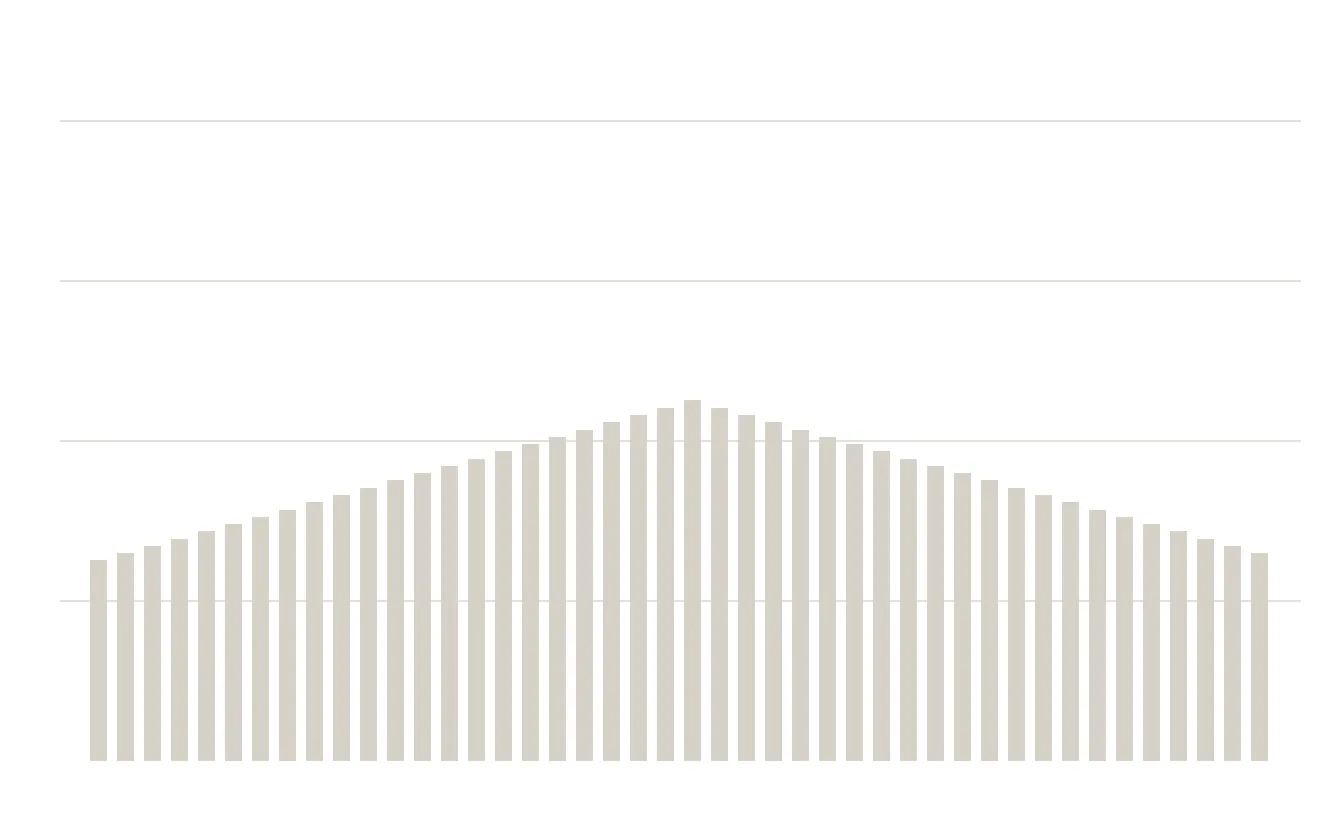
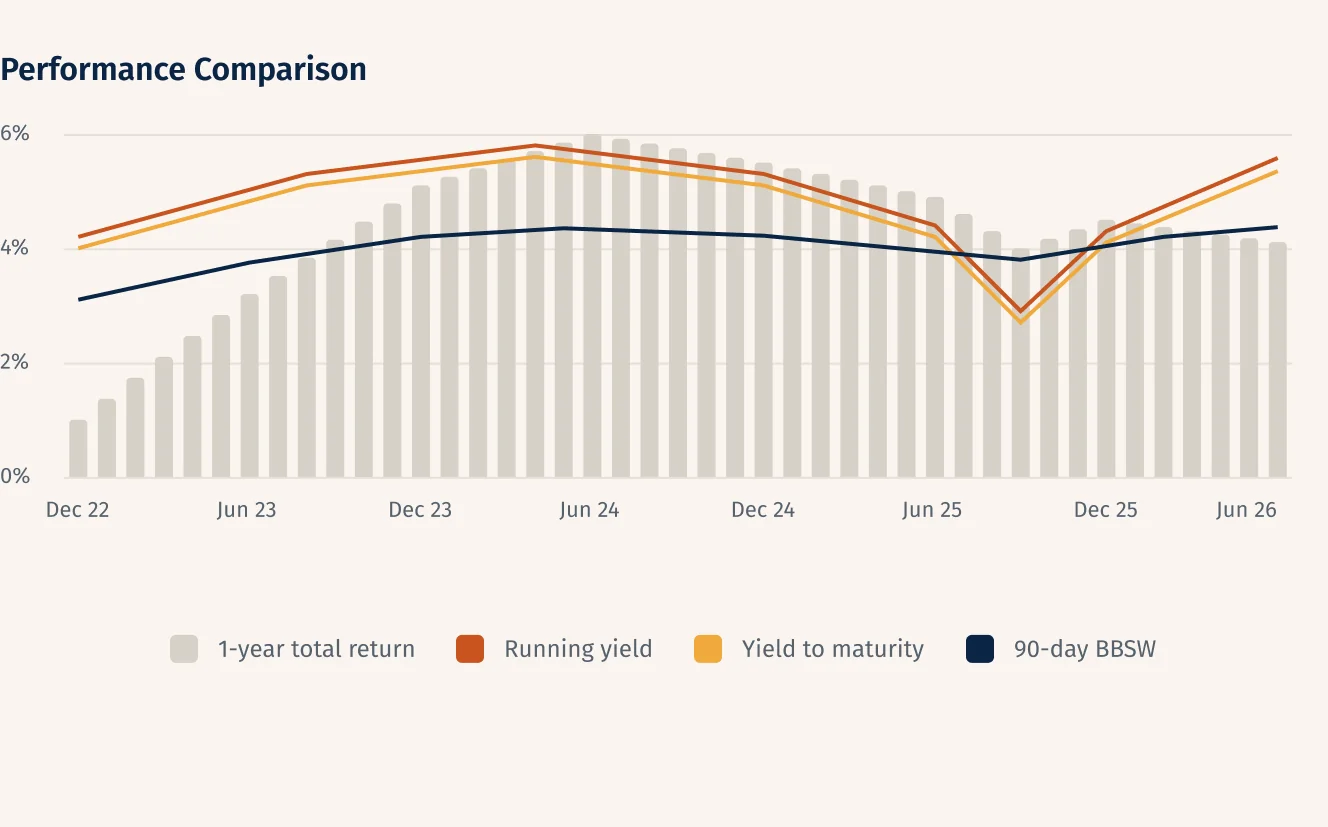
Add files via upload

diff --git a/src/styles/global.css b/src/styles/global.css
@@ -56,10 +56,10 @@
   --text-h4: 28px;      --text-h4--line-height: 1.15;
   --text-h5: 24px;      --text-h5--line-height: 1.35;
   --text-h6: 20px;      --text-h6--line-height: 1.3;
-  --text-body-lg: 22px; --text-body-lg--line-height: 1.5; /* fund 'About the Fund' paragraph */
+  --text-base-lg: 22px; --text-base-lg--line-height: 1.5; /* fund 'About the Fund' paragraph */
   --text-lead: 18px;    --text-lead--line-height: 1.45;
   --text-subhead: 16px; --text-subhead--line-height: 1.2; /* table/chart titles on fund pages; SemiBold navy-mid */
-  --text-body: 15px;    --text-body--line-height: 1.45;
+  --text-base: 15px;    --text-base--line-height: 1.45; /* body copy; `text-body` is the COLOUR utility — use text-base for the size */
   --text-small: 12px;   --text-small--line-height: 1.4;
   --text-kicker: 11px;  --text-kicker--line-height: 1.2; /* use with font-semibold uppercase tracking-kicker */
   --text-caption: 11px; --text-caption--line-height: 1.3;
@@ -80,9 +80,11 @@
   --gradient-ladder-1: linear-gradient(90deg, #0E202E 0%, #1E355E 100%);
   --gradient-ladder-2: linear-gradient(90deg, #1E355E 0%, #394D71 100%);
   --gradient-ladder-3: linear-gradient(90deg, #1E4E78 0%, #466E96 100%);
+  /* Home fund card mesh (Figma fund-cards SHADER) — CSS approximation, [Unverified] tune at QA */
+  --gradient-fund-card: radial-gradient(ellipse 60% 70% at 100% 100%, #F2C9B2 0%, #FAF5F1 45%, #FFFFFF 75%);
 }
 
 @layer base {
   html { font-family: var(--font-sans); -webkit-font-smoothing: antialiased; }
-  body { @apply text-body text-body bg-white; }
+  body { @apply text-base text-body bg-white; }
 }

diff --git a/CLAUDE.md b/CLAUDE.md
@@ -77,9 +77,9 @@ Type ramp (Fira Sans; size/line-height as used on the frames):
 | H4 | Medium 28/115% |
 | H5 | Medium 24/135% |
 | H6 | Medium 20/130% |
-| Body-lg | Regular 22/150% — fund page About paragraph |
+| Body-lg | Regular 22/150% — fund page About paragraph (`text-base-lg`) |
 | Lead | Regular 18/145% |
-| Body | Regular 15/145% |
+| Body | Regular 15/145% — size utility is `text-base` (set on `body`); `text-body` is the COLOUR utility |
 | Body strong | Medium 15/145% |
 | Small | Regular 12/140% |
 | Kicker / label | SemiBold 11/auto |
@@ -109,7 +109,7 @@ All in `content/`, loaded as Astro content collections by `src/content.config.ts
 - `legal/terms.md`, `legal/privacy.md`, `legal/cookies.md`, `legal/disclosure.md` (disclosure copy pending).
 - `pages/home.json`, `pages/contact.json`, `pages/404.json`.
 
-Monthly update is a `data.json`-style edit: change fund JSON, add PDF and a `documents.json` line, drop in the chart export, commit. Document this in `docs/MONTHLY.md` (task L3).
+Monthly update: the two performance charts are Figma exports (`Performance chart` nodes `88:836` AFI, `97:1119` PIF, at 2×, WebP), never generated in code; the portfolio allocation donut is inline SVG from the three allocation rows. The edit is: change fund JSON, add PDF and a `documents.json` line, drop in the chart export, commit. Document this in `docs/MONTHLY.md` (task L3).
 
 ## 5. Rules
 
@@ -228,7 +228,7 @@ Reference frames: local components page `198:4969`; UI tints `123:32106`; palett
 | `StrategyAtAGlance` | `items: [value, label][]`, `ladder: 1 \| 2 \| 3` | `104:13320`→`207:18170`; BBB `118:12579`; PEP `120:1030` |
 | `ContentColumns` | `title`, `items: [heading, body][]`, `icons?`, `columns?`, `bg?` | `103:1341`→`207:17865` |
 | `TwoColumnsContent` | `title`, `paragraphs: string[]`, `bg?` | `103:1340`→`207:17864` |
-| `LeftRight` | `title`, `paragraphs`, `image {src, alt}`, `button?`, `flip?`, `bg?` | `157:11910`→`208:12143`; home `123:31759` |
+| `LeftRight` | `title`+`paragraphs` or `blocks {title, paragraphs}[]`, `image {src, alt}`, `button?`, `flip?`, `bg?` | `157:11910`→`208:12143`; home `123:31759` |
 | `FundOverviewPerformance` | `about {title, body}`, `ratingReportUrl?`, `performance {...}`, `fundName` | `88:828`→`207:17684`; PIF `97:1110`→`207:17732` |
 | `RatingsRow` | `reportUrl` (copy from `site.json` ratings) | `244:9689`→`228:9407`; Approach `244:9709` |
 | `Documents` | `title`, `intro?`, `items {title, href, meta?}[]`, `viewAll?`, `collapseAfter?`, `bg?`, `id?` | `95:1133`→`249:20747`; library `186:3637…` |
@@ -246,6 +246,10 @@ Reference frames: local components page `198:4969`; UI tints `123:32106`; palett
 | `ContactForm` / `FormField` | none — reads pages/contact.json + site.json | `181:12164`→`210:12398`; errors `189:4027`; sent `189:4288` |
 | `SubscribeModal` | none — opened by any `[data-open-subscribe]` | `189:4552`→`236:9567`; done `189:4713` |
 | `AttestationModal` | none — include on gated pages; opens when session key absent | `189:4010`→`236:9091`; scrim `130:13793` |
+| `FundCards` | `title`, `cards {fund, title, subtitle, rate, rateNote, href, investHref, image}[]`, `buttons`, `showRatings?`, `id?` | `123:31757`→`207:16552` |
+| `ImportantDisclosure` | none — reads `site.json` | `123:31758`→`207:16553` |
+| `FundFeesFacts` | `suit {title, body}`, `managed {title, body[], button}`, `features {title, items}` | `88:935`→`207:16882` |
+| `FundPortfolio` | `title`, `metrics`, `allocation {columns, rows}` — donut is inline SVG from rows | `88:957`→`207:16884` |
 | `Breadcrumb` | `items: string[]` (labels; hrefs from nav) | `88:826`→`207:16878` |
 | `ImportantInformation` | `variant: generic` \| `fund` + `fundName, arsn, apir` \| `wholesale` + `riskSubject, asAt` | `123:31763`, `88:994`, `103:1344` |
 | `CtaBanner` | `title`, `body`, `button` | `113:830`→`207:17867` |

diff --git a/BUILD_TASKS.md b/BUILD_TASKS.md
@@ -37,8 +37,8 @@ T7 is the checkpoint: if the build is running well past estimate by then, revisi
 
 ## 4 · Pages
 
-- [ ] T13 Home (warm hero and fund cards, navy below)
-- [ ] T14 Fund page template → AFI (navy), PIF (warm/orange); fund-specific important information; three-destination CTA (Invest via Olivia123 [gold], Enquire via pre-filled contact form [rust], Read PDF)
+- [x] T13 Home (`src/pages/index.astro`) + home-only modules `FundCards` (warm mesh cards, CSS approximation `[Unverified]`) and `ImportantDisclosure`; `LeftRight` now takes `blocks[]` for the home's two stacked text blocks; `RatingsRow` button optional — 16 Sep. Fixed a T1 token collision: `text-body` was colour only, so body copy had been 16px; size is now `text-base` (15px) on `body`.
+- [x] T14 Fund page template `src/pages/funds/[slug].astro` → AFI and PIF; `FundFeesFacts`, `FundPortfolio` (allocation donut drawn as inline SVG from the JSON rows — no chart library); first real performance charts exported from the frames to `public/charts/<fund>-2026-06.webp` (the export carries its own title, so the slot renders no caption) — 16 Sep
 - [ ] T15 Wholesale landing (gate at entry; strategy cards click through once attested) + Private mandates module + strategy template → A−, BBB, PEP (gated as deep-link safety net; PEP performance figures entirely off-page)
 - [ ] T16 Investment Management (gated; entity name pending)
 - [ ] T17 About: Our approach, Governance & oversight (RE = DDH Graham), Team (CEO = Sunetha Parag); ESG (needs an inbound link — see register)
@@ -72,7 +72,7 @@ T7 is the checkpoint: if the build is running well past estimate by then, revisi
 
 - [ ] L1 Staging review against the compliance register, page by page (Cloudflare Workers staging, noindex)
 - [ ] L2 DNS cutover; SSL; test forms, attestation and Olivia123 links on production domain
-- [ ] L3 Handover doc (`docs/MONTHLY.md`): edit fund JSON, add PDF + `documents.json` line, export chart from Figma, commit — with a worked example
+- [ ] L3 Handover doc (`docs/MONTHLY.md`): edit fund JSON (performance periods, `performanceAsAt`, `chartImage`, portfolio metrics, allocation rows), add PDF + `documents.json` line, export the chart frame from Figma at 2× as WebP to `public/charts/<fund>-<yyyy-mm>.webp`, commit — with a worked example
 - [ ] L4 Post-launch: test gold external-link colour against rust actions; may revert header button label / external colour
 
 ## Parked (do not resolve in code)
